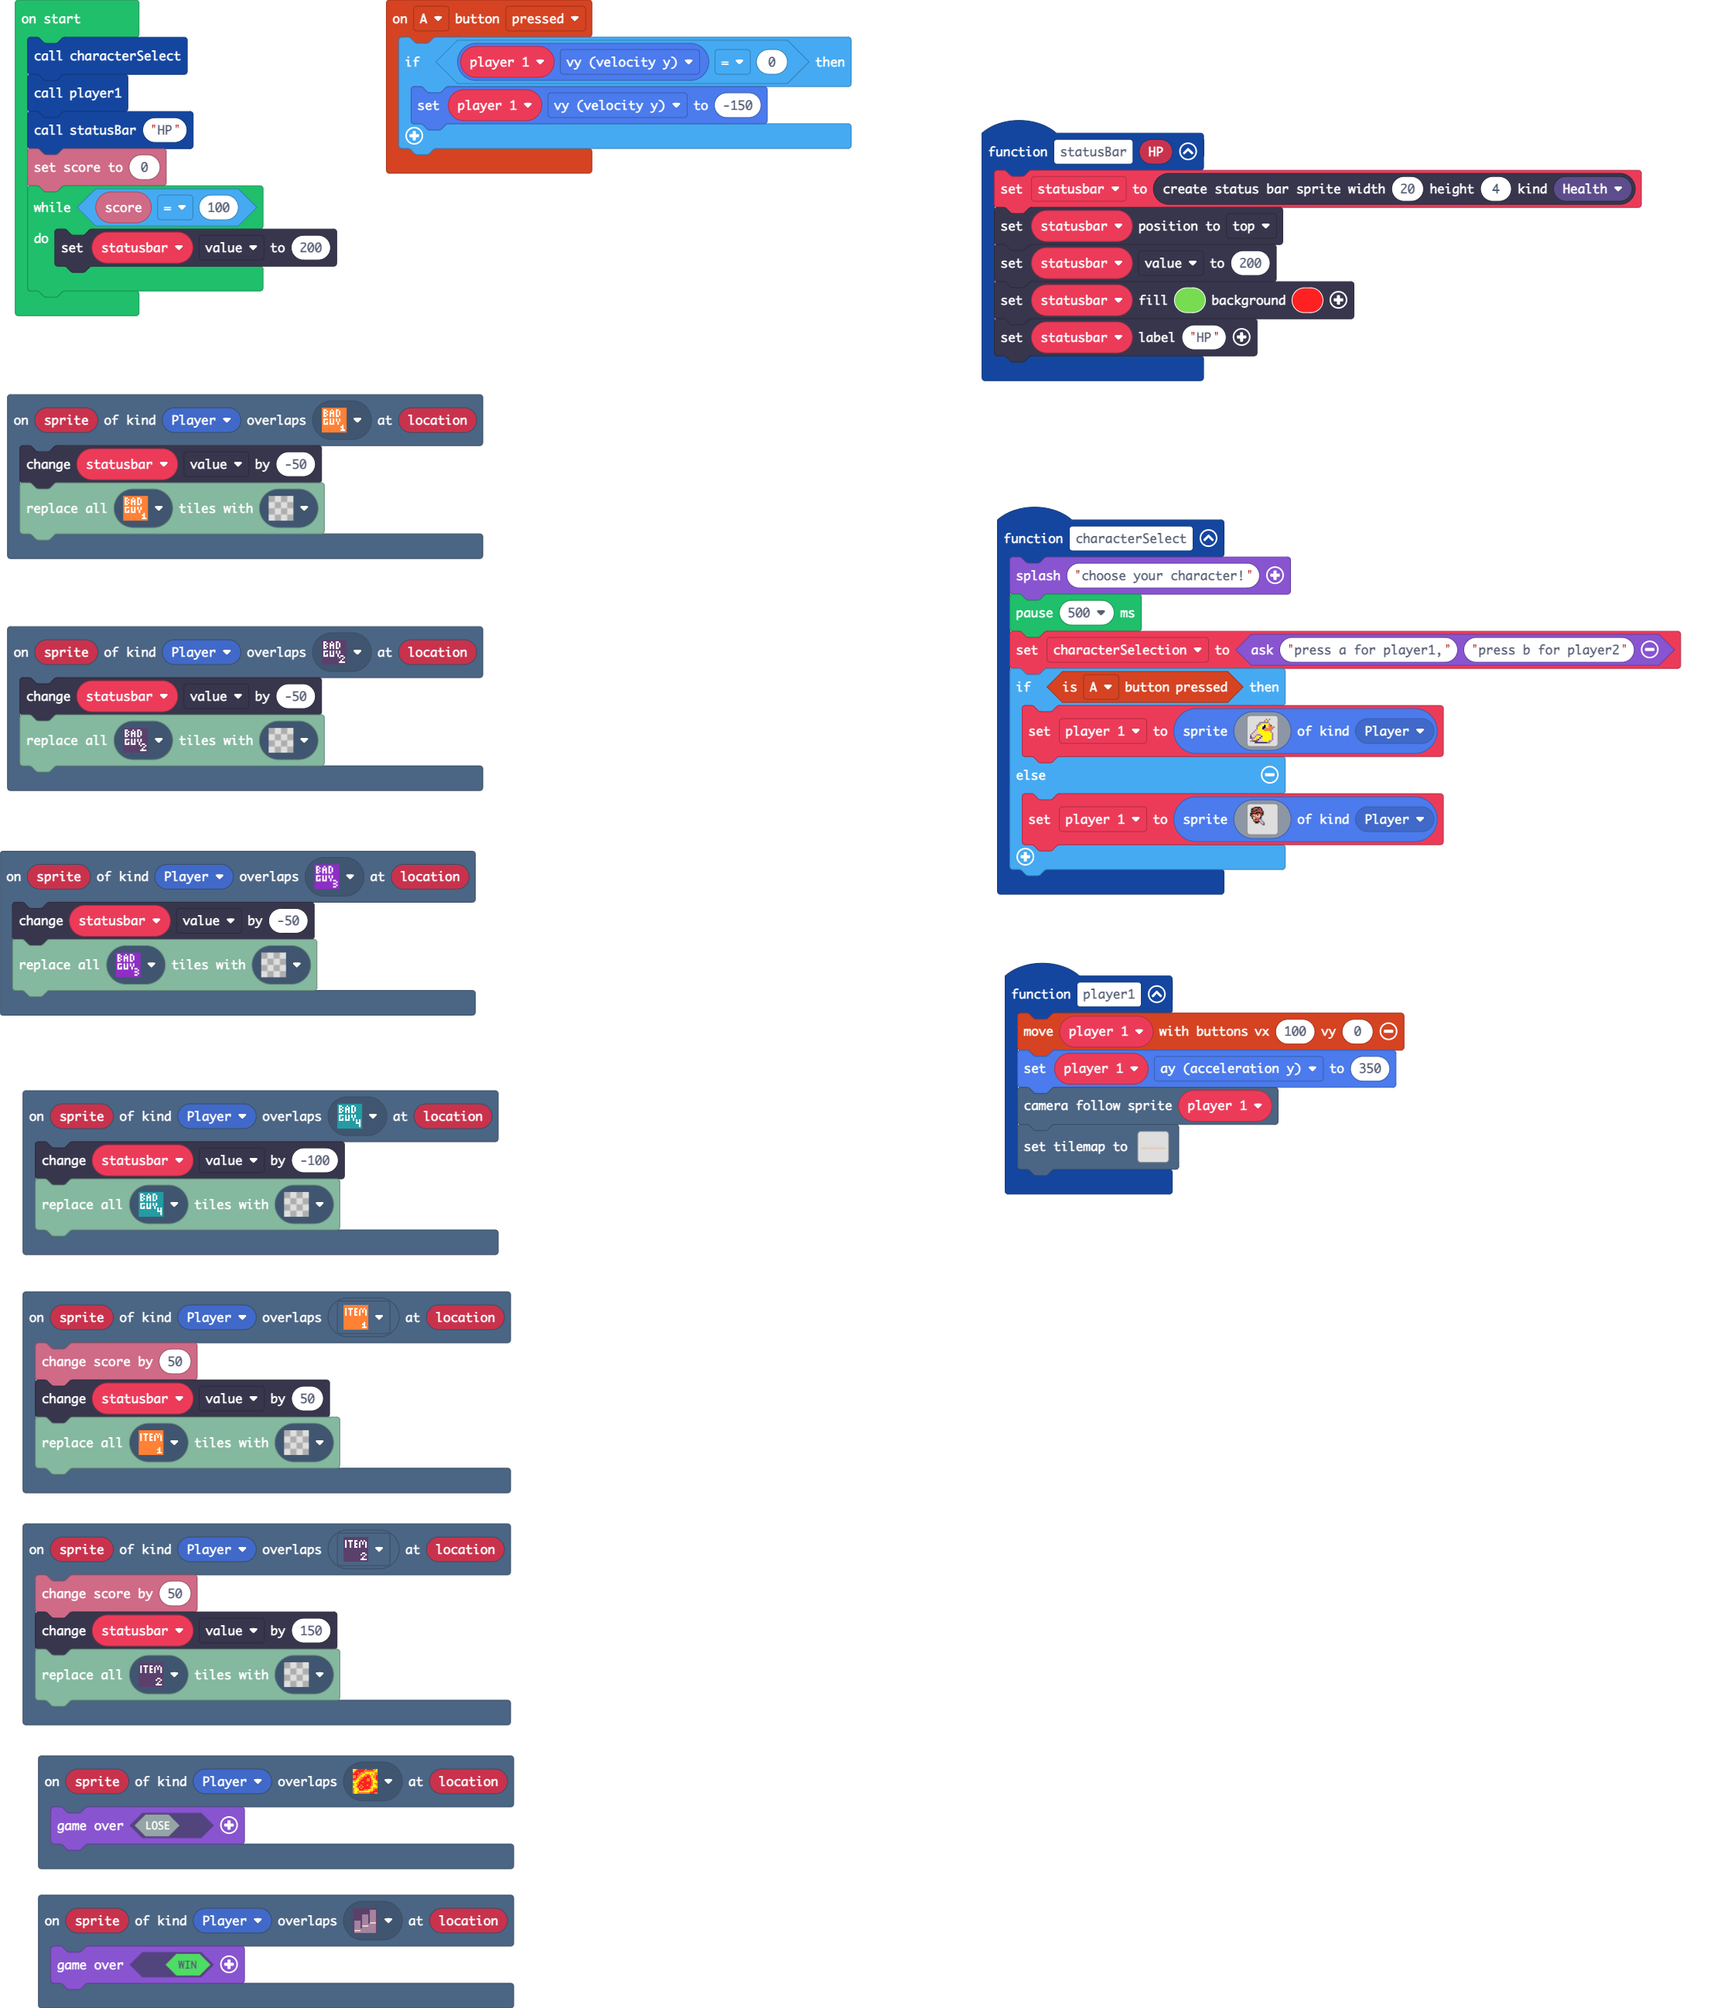
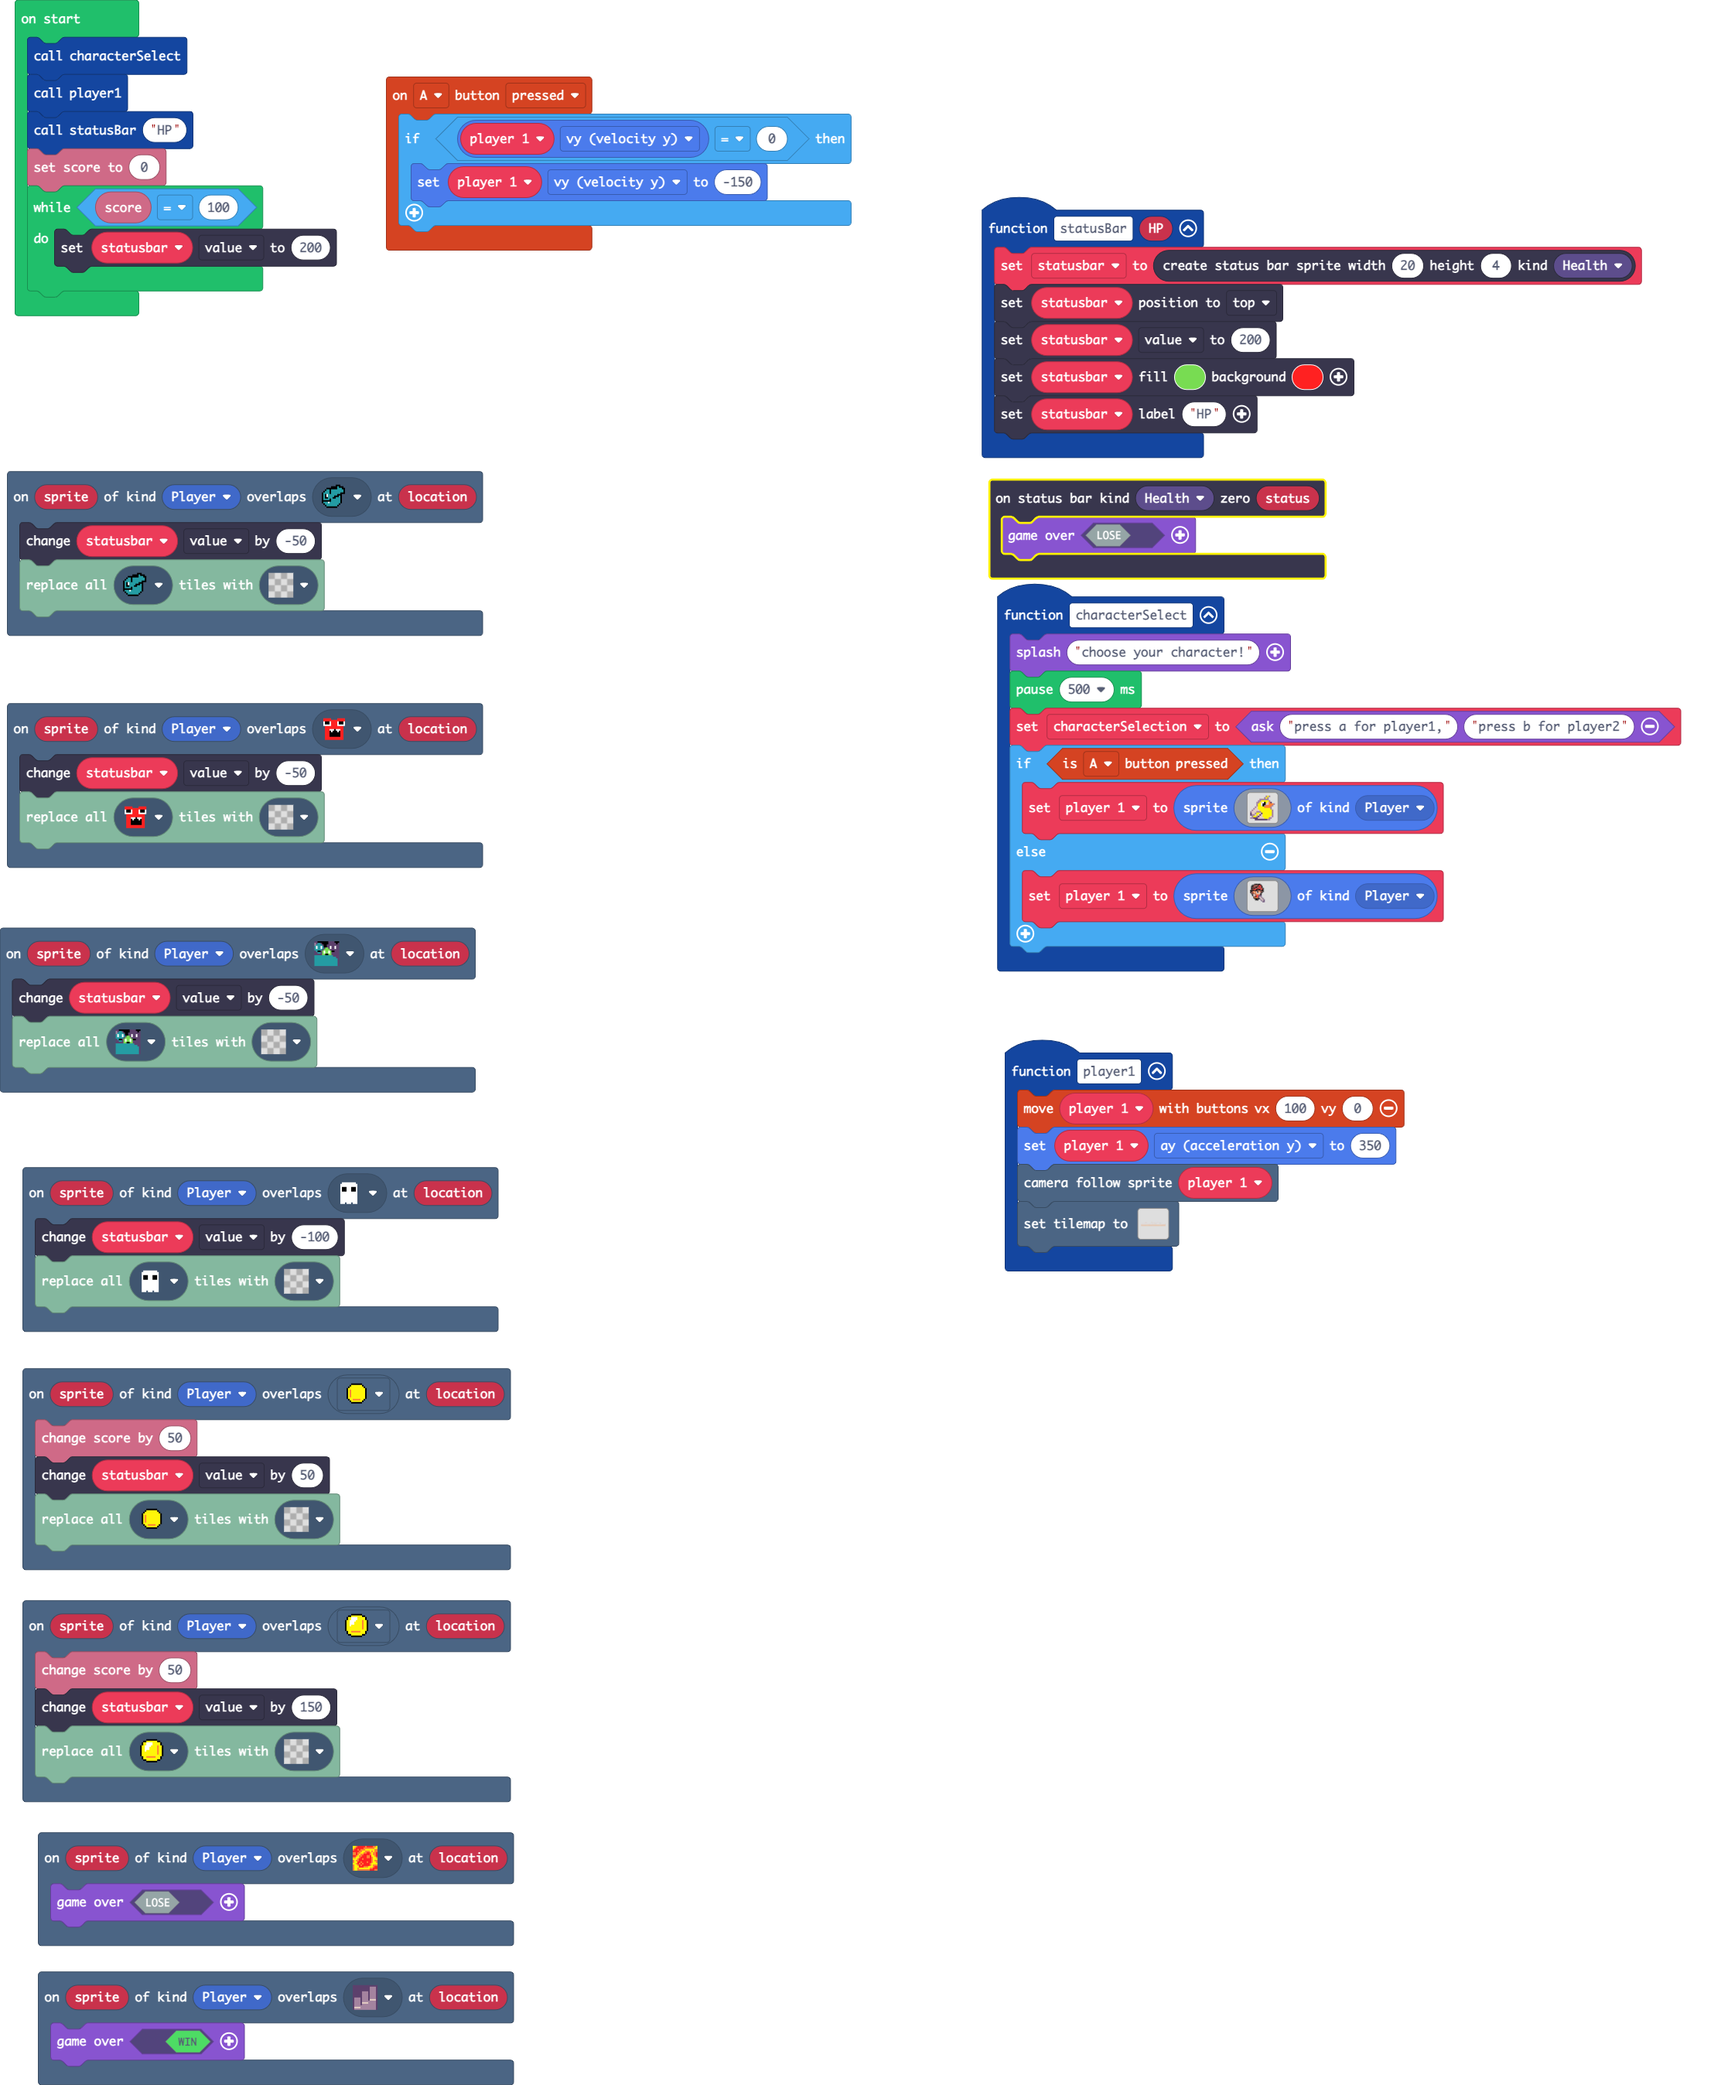
Update main.blocks, main.ts, tilemap.g.jres, tilemap.g.ts

diff --git a/tilemap.g.ts b/tilemap.g.ts
@@ -3,7 +3,17 @@ namespace myTiles {
     //% fixedInstance jres blockIdentity=images._tile
     export const transparency16 = image.ofBuffer(hex``);
     //% fixedInstance jres blockIdentity=images._tile
+    export const tile1 = image.ofBuffer(hex``);
+    //% fixedInstance jres blockIdentity=images._tile
     export const tile3 = image.ofBuffer(hex``);
+    //% fixedInstance jres blockIdentity=images._tile
+    export const tile2 = image.ofBuffer(hex``);
+    //% fixedInstance jres blockIdentity=images._tile
+    export const tile4 = image.ofBuffer(hex``);
+    //% fixedInstance jres blockIdentity=images._tile
+    export const tile5 = image.ofBuffer(hex``);
+    //% fixedInstance jres blockIdentity=images._tile
+    export const tile6 = image.ofBuffer(hex``);
 
     helpers._registerFactory("tilemap", function(name: string) {
         switch(helpers.stringTrim(name)) {
@@ -26,25 +36,6 @@ namespace myTiles {
 . . . . . . . . . . . . . . . . 
 . . . . . . . . . . . . . . . . 
 `, [myTiles.transparency16], TileScale.Sixteen);
-            case "level1":
[1 lines of base64/hex data omitted]
-....................................................................................................
-....................................................................................................
-....................................................................................................
-....................................................................................................
-............................................22222.................2222222...........................
-.................222222...................2........2222.........2...................................
-...............2.........................2.....................2....................................
-.............222.......................2......................2............222222222................
-.........22..............222.......222...................22222......................................
-22222222..........................2...................2.............................................
-..............................2222..................2...............................................
-..............................................2.2.2.....................................222222222222
-....................................................................................................
-....................................................................................................
-....................................................................................................
-....................................................................................................
-`, [myTiles.transparency16,sprites.dungeon.floorLight0,sprites.dungeon.hazardLava0,sprites.dungeon.hazardLava1,sprites.dungeon.floorLight2,sprites.dungeon.stairLarge,tiles.util.object4,tiles.util.object6,tiles.util.object12,tiles.util.object14,tiles.util.object0,tiles.util.object2], TileScale.Sixteen);
             case "level3":
             case "level3":return tiles.createTilemap(hex`1000100000000000000000000000000000000000000000000000000000000000000000000000000000000000000000000000000000000000000000000000000000000000000000000000000000000000000000000000000000000000000000000000000000000000000000000000000000000000000000000000000000000000000000000000000000000000000000000000000000000000000000000000000000000000000000000000000000000000000000000000000000000000000000000000000000000000000000000000000000000000000000000000000000000000000000000000000000000000000000000000000000000000000000000000000000000000`, img`
 . . . . . . . . . . . . . . . . 
@@ -102,6 +93,25 @@ namespace myTiles {
 . . . . . . . . . . . . . . . . 
 . . . . . . . . . . . . . . . . 
 `, [myTiles.transparency16], TileScale.Sixteen);
+            case "level1":
[1 lines of base64/hex data omitted]
+....................................................................................................
+....................................................................................................
+....................................................................................................
+....................................................................................................
+............................................22222.................2222222...........................
+.................222222...................2........2222.........2...................................
+...............2.........................2.....................2....................................
+.............222.......................2......................2............222222222................
+.........22..............222.......222...................22222......................................
+22222222..........................2...................2.............................................
+..............................2222..................2...............................................
+..............................................2.2.2.....................................22222222..22
+.................................................................................................2..
+......................................................................................2.........2...
+.......................................................................................2.2.2.2.2....
+....................................................................................................
+`, [myTiles.transparency16,sprites.dungeon.floorLight0,sprites.dungeon.hazardLava0,sprites.dungeon.hazardLava1,sprites.dungeon.floorLight2,sprites.dungeon.stairLarge,sprites.dungeon.floorLight4,myTiles.tile1,myTiles.tile3,myTiles.tile2,myTiles.tile4,myTiles.tile5,myTiles.tile6], TileScale.Sixteen);
         }
         return null;
     })
@@ -109,8 +119,18 @@ namespace myTiles {
     helpers._registerFactory("tile", function(name: string) {
         switch(helpers.stringTrim(name)) {
             case "transparency16":return transparency16;
+            case "myTile":
+            case "tile1":return tile1;
             case "myTile1":
             case "tile3":return tile3;
+            case "myTile0":
+            case "tile2":return tile2;
+            case "myTile2":
+            case "tile4":return tile4;
+            case "myTile3":
+            case "tile5":return tile5;
+            case "myTile4":
+            case "tile6":return tile6;
         }
         return null;
     })

diff --git a/main.ts b/main.ts
@@ -1,11 +1,16 @@
-scene.onOverlapTile(SpriteKind.Player, tiles.util.object2, function (sprite, location) {
+scene.onOverlapTile(SpriteKind.Player, assets.tile`myTile0`, function (sprite, location) {
+    statusbar.value += -50
+    tiles.replaceAllTiles(assets.tile`myTile0`, assets.tile`transparency16`)
+})
+scene.onOverlapTile(SpriteKind.Player, assets.tile`myTile1`, function (sprite, location) {
+    info.changeScoreBy(50)
+    statusbar.value += 50
+    tiles.replaceAllTiles(assets.tile`myTile1`, assets.tile`transparency16`)
+})
+scene.onOverlapTile(SpriteKind.Player, assets.tile`myTile`, function (sprite, location) {
     info.changeScoreBy(50)
     statusbar.value += 150
-    tiles.replaceAllTiles(tiles.util.object2, assets.tile`transparency16`)
-})
-scene.onOverlapTile(SpriteKind.Player, tiles.util.object14, function (sprite, location) {
-    statusbar.value += -100
-    tiles.replaceAllTiles(tiles.util.object14, assets.tile`transparency16`)
+    tiles.replaceAllTiles(assets.tile`myTile`, assets.tile`transparency16`)
 })
 controller.A.onEvent(ControllerButtonEvent.Pressed, function () {
     if (player_1.vy == 0) {
@@ -15,13 +20,13 @@ controller.A.onEvent(ControllerButtonEvent.Pressed, function () {
 scene.onOverlapTile(SpriteKind.Player, sprites.dungeon.hazardLava0, function (sprite, location) {
     game.over(false)
 })
-scene.onOverlapTile(SpriteKind.Player, tiles.util.object6, function (sprite, location) {
-    statusbar.value += -50
-    tiles.replaceAllTiles(tiles.util.object6, assets.tile`transparency16`)
+scene.onOverlapTile(SpriteKind.Player, assets.tile`myTile4`, function (sprite, location) {
+    statusbar.value += -100
+    tiles.replaceAllTiles(assets.tile`myTile4`, assets.tile`transparency16`)
 })
-scene.onOverlapTile(SpriteKind.Player, tiles.util.object4, function (sprite, location) {
+scene.onOverlapTile(SpriteKind.Player, assets.tile`myTile3`, function (sprite, location) {
     statusbar.value += -50
-    tiles.replaceAllTiles(tiles.util.object4, assets.tile`transparency16`)
+    tiles.replaceAllTiles(assets.tile`myTile3`, assets.tile`transparency16`)
 })
 function characterSelect () {
     game.splash("choose your character!")
@@ -82,20 +87,18 @@ function statusBar (HP: string) {
     statusbar.setColor(7, 2)
     statusbar.setLabel("HP")
 }
+statusbars.onZero(StatusBarKind.Health, function (status) {
+    game.over(false)
+})
 function player1 () {
     controller.moveSprite(player_1, 100, 0)
     player_1.ay = 350
     scene.cameraFollowSprite(player_1)
     tiles.setTilemap(tilemap`level1`)
 }
-scene.onOverlapTile(SpriteKind.Player, tiles.util.object12, function (sprite, location) {
+scene.onOverlapTile(SpriteKind.Player, assets.tile`myTile2`, function (sprite, location) {
     statusbar.value += -50
-    tiles.replaceAllTiles(tiles.util.object12, assets.tile`transparency16`)
-})
-scene.onOverlapTile(SpriteKind.Player, tiles.util.object0, function (sprite, location) {
-    info.changeScoreBy(50)
-    statusbar.value += 50
-    tiles.replaceAllTiles(tiles.util.object0, assets.tile`transparency16`)
+    tiles.replaceAllTiles(assets.tile`myTile2`, assets.tile`transparency16`)
 })
 scene.onOverlapTile(SpriteKind.Player, sprites.dungeon.stairLarge, function (sprite, location) {
     game.over(true)
